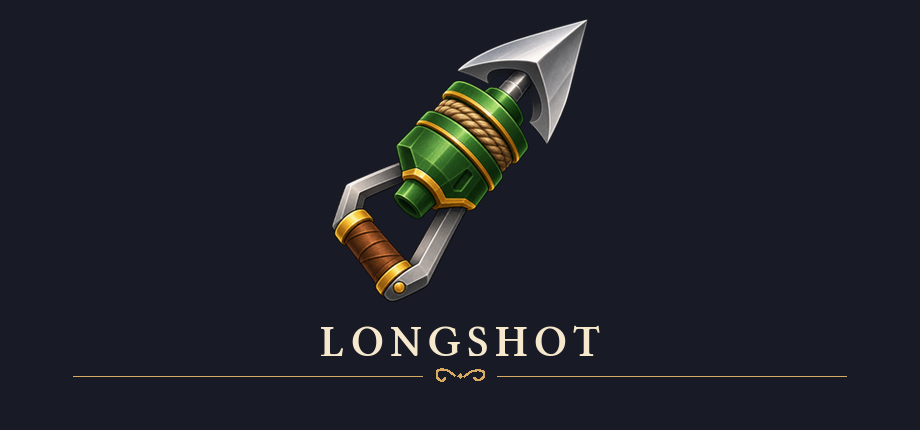
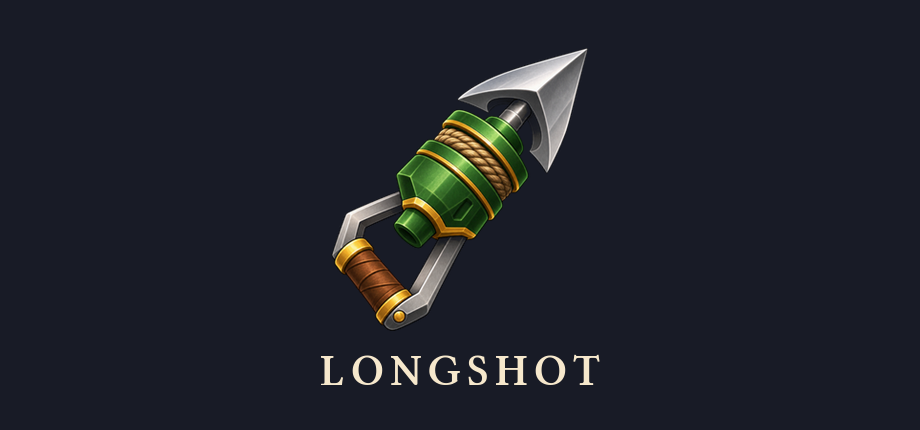
fix(artwork): the gold line under LONGSHOT leaves the generated capsules (#330)
Why: a maintainer asked the accent line under LONGSHOT's wording out of the game's artwork. The banner the game build draws lost it already (Longshot#2353); the four Steam grid slots this launcher generates still carried it, and this is the other half of "every asset the project generates is without it".

What changed: `scripts/make_artwork.py` no longer draws the flourish (the rule, its two mirrored curls and the centre diamond) on any slot. The composition is the glyph over the word only, recentred where the line used to hang; nothing else moved (same glyph share, same word size and spacing, same flat field sampled from each src_ original). The four committed slot files are regenerated from the unchanged `src_` originals with the same command the README prescribes (`python3 scripts/make_artwork.py assets/steam`), and a second run is byte-identical, as before. `assets/steam/README-artwork.md` records why the flourish is out, so it does not come back by hand.

## Testing

- `python3 scripts/make_artwork.py assets/steam` twice: the second run reproduces the four slot files byte for byte (the compositor is deterministic).
- The old and new slot files reviewed side by side by eye, all four: the gold rule and curl gone on every one, the glyph-over-word block centred with no leftover gap, no clipping or misalignment. (Not attached: the capsule art is the project's own, but the README's rule is a visual pass on the change, done here on the rendered slots.)
[…]

Changed region(s): [[0.3348, 0.0302, 0.6696, 0.907]]

diff --git a/scripts/make_artwork.py b/scripts/make_artwork.py
@@ -1,11 +1,13 @@
 #!/usr/bin/env python3
-"""Steam capsule art: the Longshot glyph, its name under it, the flourish under that.
+"""Steam capsule art: the Longshot glyph and its name under it.
 
-The look is the emulator's own start-up screen (Longshot's gpu/vk/vk_menu.cpp draw_startup and
-gpu/vk/vk_ui.h): the logo glyph, LONGSHOT under it in the heading face with letters spaced by 0.14
-of the letter size in cream (246,232,204), and the gold flourish (214,170,96) under that. The
-face is Libertinus Serif Semibold, the font the start-up screen falls back to when the game's own
-menu font is not there -- the game's file cannot ship, so this is the closest legal match.
+The look is the emulator's own start-up screen (Longshot's gpu/vk/vk_menu.cpp draw_startup): the
+logo glyph, LONGSHOT under it in the heading face with letters spaced by 0.14 of the letter size
+in cream (246,232,204). The face is Libertinus Serif Semibold, the font the start-up screen falls
+back to when the game's own menu font is not there -- the game's file cannot ship, so this is the
+closest legal match. The start-up screen's gold flourish under the word is deliberately not drawn:
+review had the line under the wording out of the artwork, and it stays out of the banner the game
+build draws too.
 
 INPUTS ARE THE ORIGINALS, and the originals only: assets/steam/src_<slot>.png are the shipped
 pre-wordmark art, kept as committed siblings. Reading composed capsules back in would cut the
@@ -32,13 +34,8 @@ FONT = os.path.join(ROOT, "assets", "fonts", "LibertinusSerif-Semibold.ttf")
 assert os.path.exists(FONT), f"the face the start-up screen falls back to is missing: {FONT}"
 
 CREAM = (246, 232, 204)          # the heading colour on the start-up screen
-GOLD = (214, 170, 96)            # ui::kAccent: the flourish's colour
 WORD = "LONGSHOT"
 GAP_RATIO = 0.14                 # ui::spaced's gap as a share of the letter size
-# the start-up screen's own proportions, from its scale factor: the word is 42*k, the flourish
-# curls are drawn in k, and k = 0.86*s -- so s (the flourish's unit) per em of word:
-K_PER_EM = 42.0 * 0.86
-SPANS = {"hero_1920x620": 0.72, "capsule_920x430": 0.84, "capsulep_600x900": 0.84, "logo_998x323": 0.80}
 # slot -> (width, height, glyph share of the small side, word size as a share of the small side)
 SLOTS = {
     "capsule_920x430":  (920, 430, 0.66, 0.105),
@@ -146,37 +143,6 @@ def cut_glyph(im, bg):
     return glyph
 
 
-def bez(pts, n=40):
-    """A cubic bezier as a polyline: the same four control points AddBezierCubic is given."""
-    (x0, y0), (x1, y1), (x2, y2), (x3, y3) = pts
-    out = []
-    for i in range(n + 1):
-        t = i / float(n)
-        u = 1.0 - t
-        out.append((u*u*u*x0 + 3*u*u*t*x1 + 3*u*t*t*x2 + t*t*t*x3,
-                    u*u*u*y0 + 3*u*u*t*y1 + 3*u*t*t*y2 + t*t*t*y3))
-    return out
-
-
-def flourish(d, x0, x1, y, em):
-    """ui::flourish from vk_ui.h: a faint line, two mirrored curls, a small diamond at the middle."""
-    s = em / K_PER_EM
-    m = (x0 + x1) / 2.0
-    t = max(1.0, 0.8 * s)
-    faint = tuple(GOLD) + (int(0.35 * 255),)
-    curl = tuple(GOLD) + (int(0.8 * 255),)
-    d.line([(x0, y), (m - 30 * s, y)], fill=faint, width=int(round(t)))
-    d.line([(m + 30 * s, y), (x1, y)], fill=faint, width=int(round(t)))
-    for side in (-1, 1):
-        k = float(side)
-        d.line(bez([(m + k * 4 * s, y), (m + k * 11 * s, y - 7 * s),
-                    (m + k * 21 * s, y - 6 * s), (m + k * 19 * s, y)]), fill=curl, width=max(1, int(round(1.3 * s))))
-        d.line(bez([(m + k * 19 * s, y), (m + k * 17 * s, y + 5 * s),
-                    (m + k * 11 * s, y + 4 * s), (m + k * 12 * s, y + 1 * s)]), fill=curl, width=max(1, int(round(1.3 * s))))
-    r = 2.2 * s
-    d.polygon([(m, y - r), (m + r, y), (m, y + r), (m - r, y)], fill=curl)
-
-
 def spaced_width(font, em, text, gap):
     return sum(font.getlength(ch) for ch in text) + gap * (len(text) - 1)
 
@@ -197,8 +163,8 @@ def fit_em(em, gap_ratio, max_w):
 
 
 def make(slot, out, dry=False):
-    """Recompose one slot from its original: the glyph cut from its flat field, the word under it,
-    the flourish under that. A flat field (the capsules) means the glyph comes out with its baked
+    """Recompose one slot from its original: the glyph cut from its flat field, the word under it.
+    A flat field (the capsules) means the glyph comes out with its baked
     glow and goes back on the same colour, no seam; the logo's asset carries real alpha, so its
     glyph keeps it and the word goes under it on transparency."""
     w, h, glyph_frac, em_frac = SLOTS[slot]
@@ -229,16 +195,13 @@ def make(slot, out, dry=False):
     ascent, descent = font.getmetrics()
     text_h = ascent + descent
     gap_gl = int(em * 0.30)          # the start-up screen's 16*k between logo and word, trimmed for a capsule
-    gap_fl = int(em * 1.10)          # its 66*k down to the flourish, trimmed likewise
-    total_h = gh + gap_gl + text_h + gap_fl
+    total_h = gh + gap_gl + text_h
     free = h - total_h
     top = max(0, int(free * 0.60))   # (a hair below centre: the eye reads centred art as high)
     canvas.alpha_composite(glyph, ((w - gw) // 2, top))
     d = ImageDraw.Draw(canvas)
     y = top + gh + gap_gl
     draw_spaced(d, w / 2.0, y, font, em, WORD, gap, tuple(CREAM) + (255,))
-    span = min(SPANS[slot], 0.88) * w
-    flourish(d, w / 2.0 - span / 2.0, w / 2.0 + span / 2.0, y + text_h + int(em * 0.18), em)
 
     path = os.path.join(out, f"{slot}.png")
     if dry:

diff --git a/assets/steam/README-artwork.md b/assets/steam/README-artwork.md
@@ -16,9 +16,11 @@ capsules back in would cut the glyph out of a picture of itself, so the script r
 look at the output, commit. The recipe mirrors the emulator's own start-up screen (Longshot
 `gpu/vk/vk_menu.cpp` `draw_startup`, `gpu/vk/vk_ui.h`): the Longshot glyph, `LONGSHOT` under it
 in Libertinus Serif Semibold (the fallback face the start-up screen itself uses; the game's own
-menu font cannot ship) in cream `(246,232,204)` spaced by 0.14 em, the gold `(214,170,96)`
-flourish rule — faint line, two mirrored curls, centre diamond — under the word, on the same flat
-field the source art carries (sampled, never assumed). If the artwork changes upstream, replace
+menu font cannot ship) in cream `(246,232,204)` spaced by 0.14 em, on the same flat field the
+source art carries (sampled, never assumed). The start-up screen's gold `(214,170,96)` flourish
+rule under the word — line, two mirrored curls, centre diamond — is deliberately not drawn:
+review had the line under the wording out of the artwork, and the banner the game build draws
+leaves it out too. If the artwork changes upstream, replace
 the `src_` originals and re-run the script; a visual review of the output is part of the change,
 not optional. The compositor is deterministic: re-running on unchanged originals reproduces the
 slot files byte for byte.
